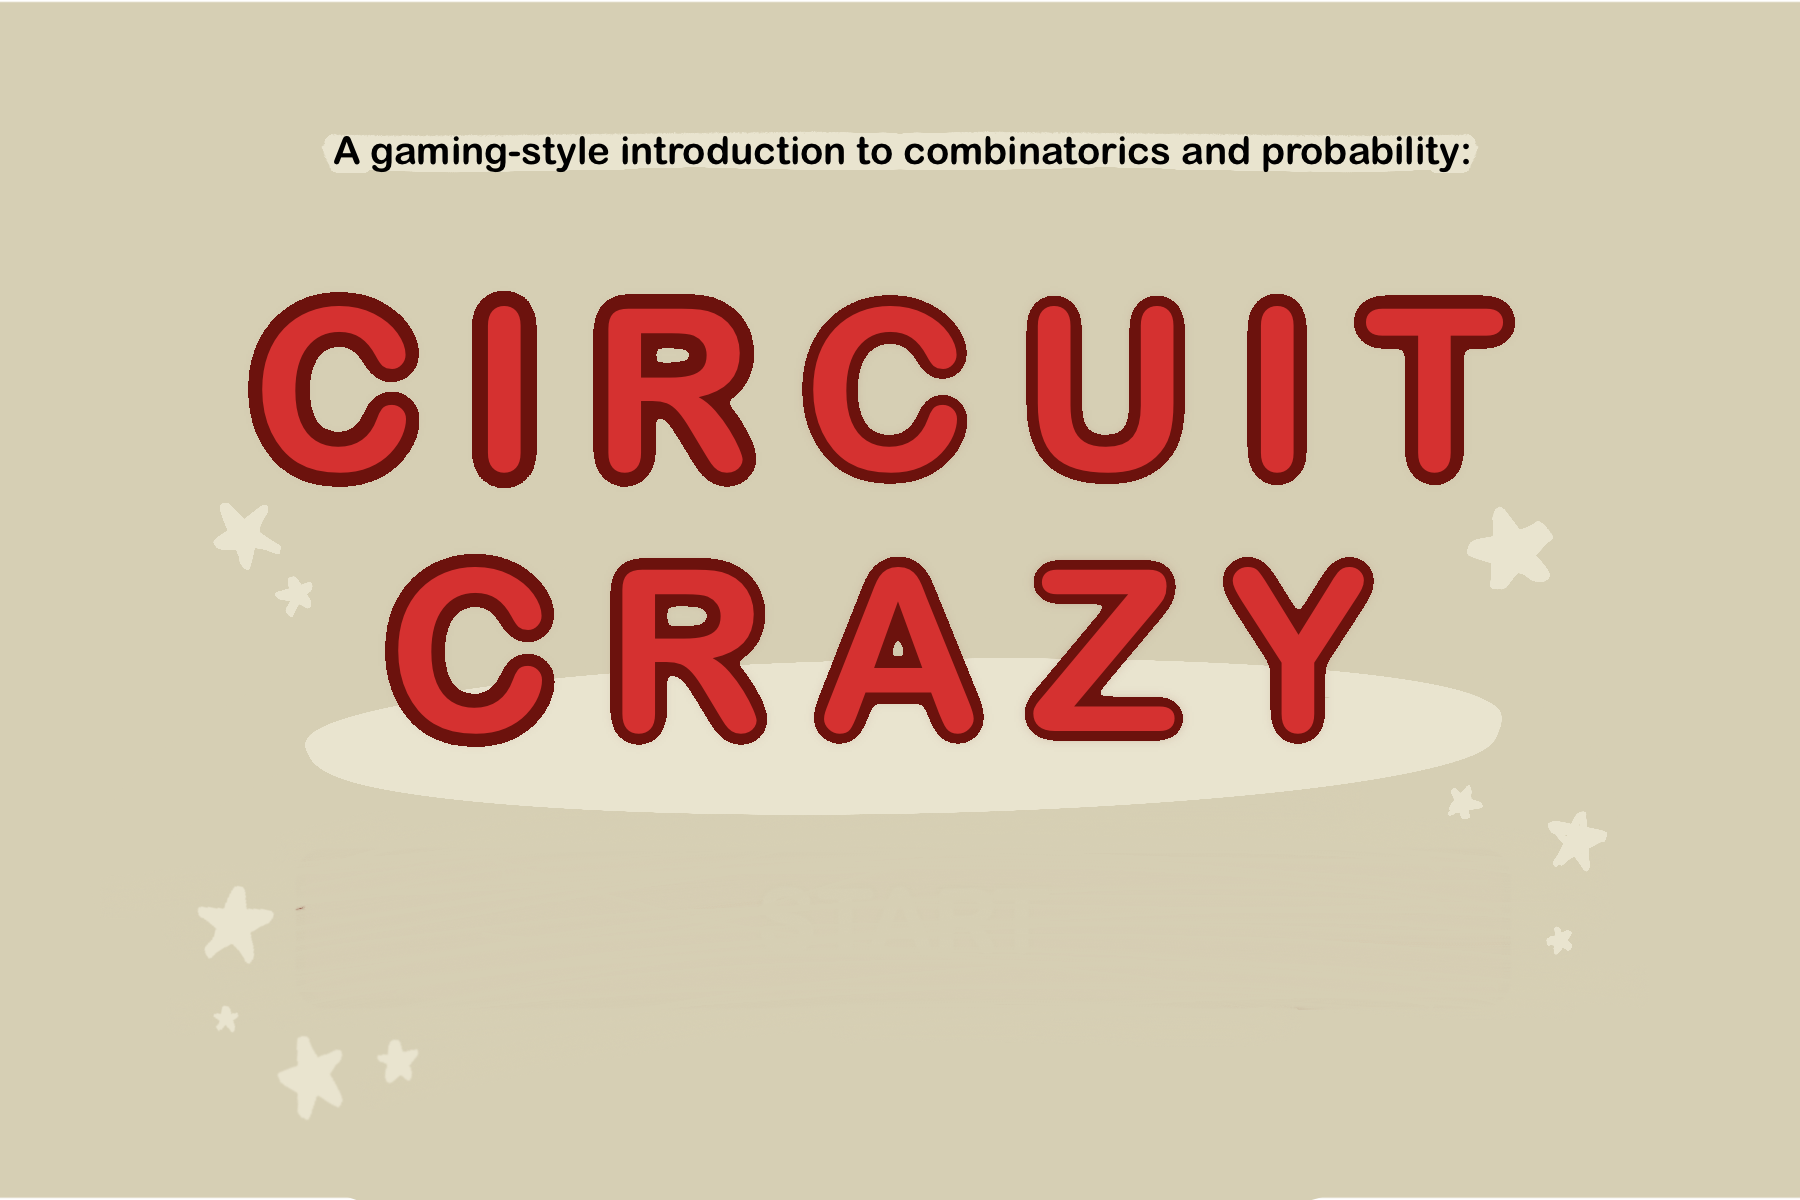
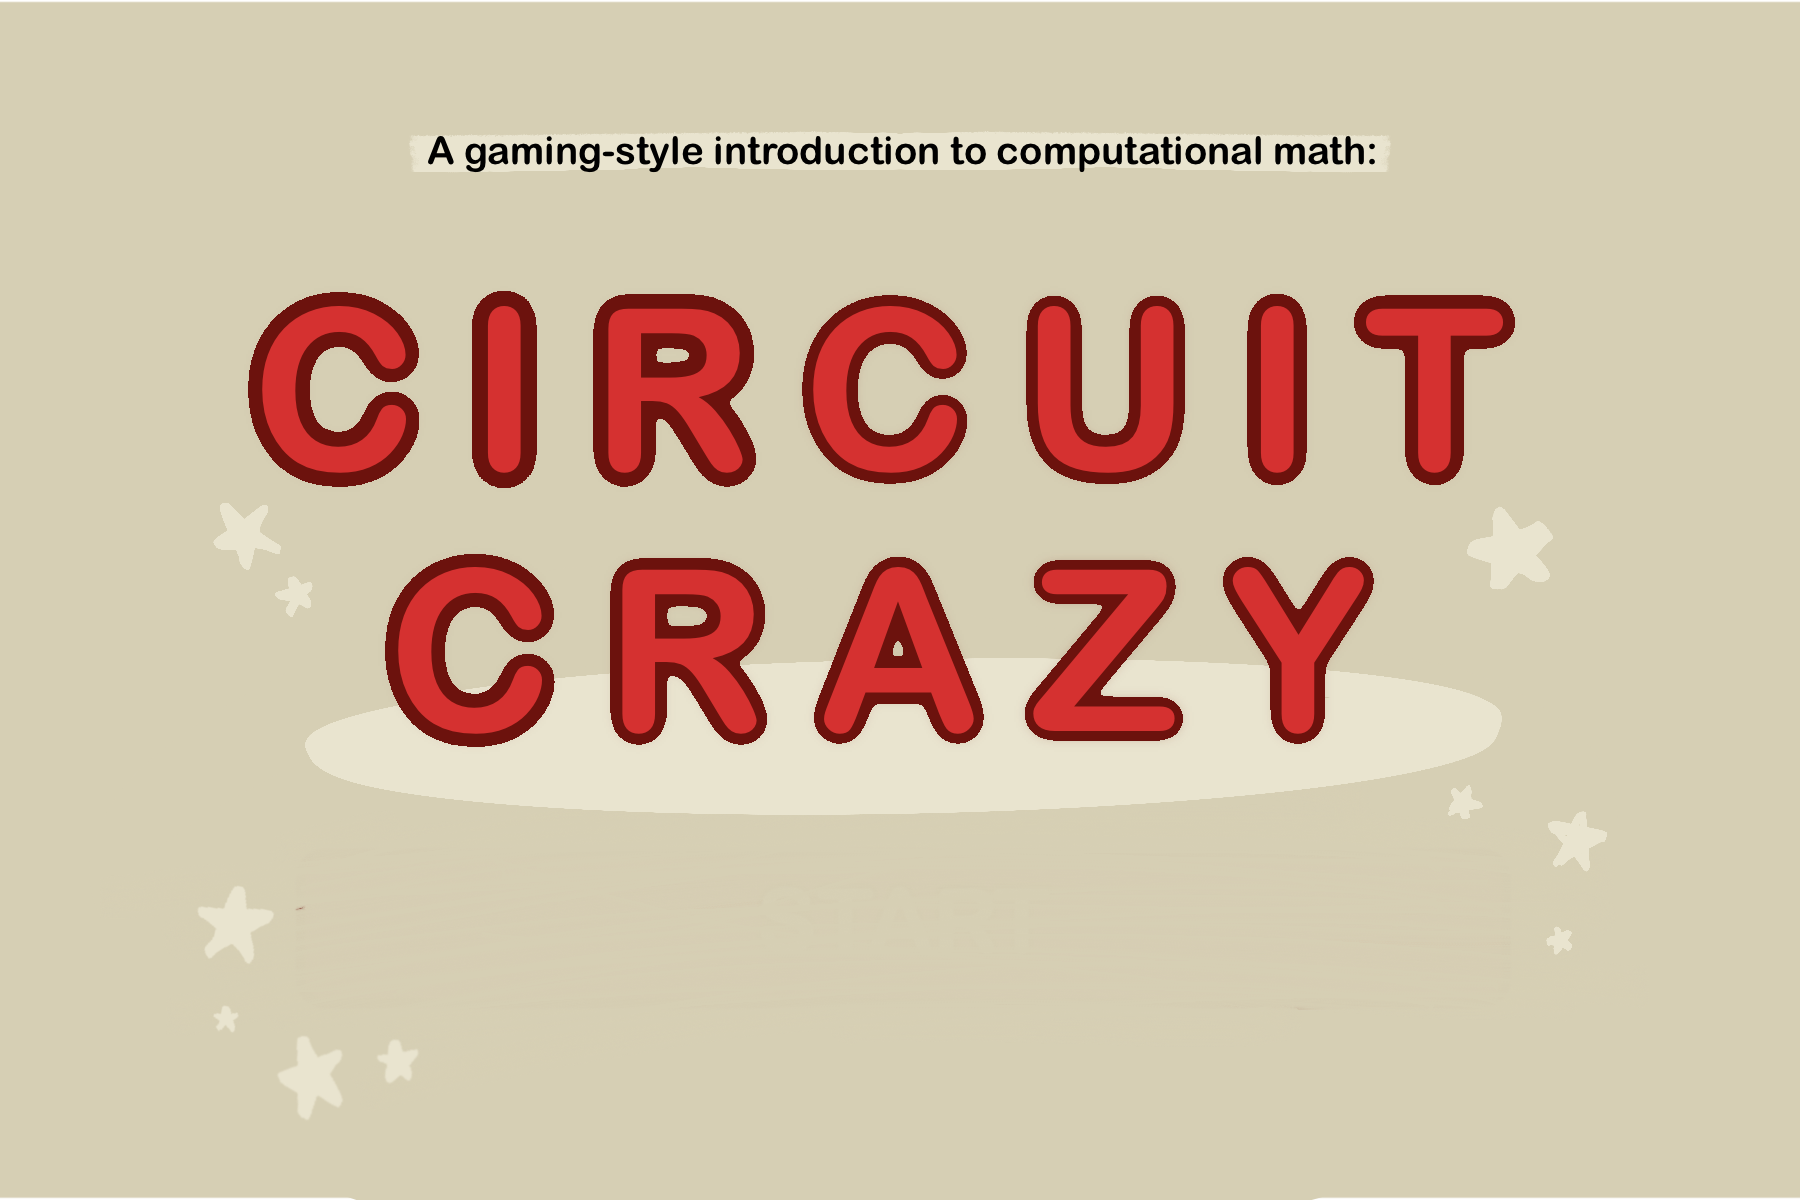
Update background

Changed region(s): [[0.1867, 0.0925, 0.84, 0.1542]]

diff --git a/guiObjects/LevelSelectScreen.js b/guiObjects/LevelSelectScreen.js
@@ -1,5 +1,5 @@
 
-let levelsUnlocked = 3;
+let levelsUnlocked = 30;
 let levelOn = 0;
 class LevelSelectScreen extends GUI {
     constructor() {
@@ -30,41 +30,43 @@ class LevelSelectScreen extends GUI {
         //Level 3: Add tigers
         levels.push({ items: [ConstantNode, InputNode, AddNode, OutputNode], inputs: ["X", "Y"], instructions: "If you have x tigers in one enclosure, y in the other, and 3 roaming the zoo, how many tigers do you have?" })
 
-        // level 4: Divide tigers
-        levels.push({ items: [ConstantNode, InputNode, SubNode, AddNode, MultNode, OutputNode], inputs: ["X", "Y"], instructions: "You put x tigers in each of y buckets. How many tigers are there in total?" })
+        //4: And gate
+        levels.push({ items: [ConstantNode, InputNode, AddNode, MultNode, OutputNode], inputs: ["X", "Y", "Z"], instructions: "Given 3 integers, x, y, and z, that can be either 0 or 1, return 1 if all of them are 1, and 0 otherwise." })
+        
+        //5: NAND gate
+        levels.push({ items: [ConstantNode, InputNode, AddNode, SubNode, MultNode, OutputNode], inputs: ["X", "Y"], instructions: "Given 2 integers, x and y, that can be either 0 or 1, return 0 if all of them are 0, and 1 otherwise." })
 
-        // level 5: Mod tigers 
-        levels.push({ items: [ConstantNode, InputNode, AddNode, MultNode, OutputNode], inputs: ["X", "Y"], instructions: "You have x tigers. You put them into y buckets. Each bucket has the same number of tigers-- any leftover tigers are put away. How many tigers are left over?" })
+        //6: Divide tigers
+        levels.push({ items: [ConstantNode, InputNode, AddNode, SubNode, MultNode, DivNode, OutputNode], inputs: ["X", "Y"], instructions: "You put x tigers in each of y cages and the loading dock. How many tigers are there in total?" })
+        
+        //7: Mod tigers 
+        levels.push({ items: [ConstantNode, InputNode, AddNode, SubNode, MultNode, DivNode, OutputNode], inputs: ["X", "Y"], instructions: "You have x tigers. You put them into y packs. Each pack has the same number of tigers-- any leftover tigers form duos. How many duos are there?" })
 
-        // level 6: choose
-        levels.push({ items: [ConstantNode, InputNode, AddNode, SubNode, MultNode, DivNode, FactorialNode, OutputNode], inputs: ["X", "Y"], instructions: "There are X tigers. You need to form a group of Y tigers for a hackathon. How many unique groups of tigers can you make?" })
+        //8: mini-collatz
+        levels.push({ items: [ConstantNode, InputNode, AddNode, SubNode, MultNode, DivNode, OutputNode], inputs: ["N"], instructions: "Given an integer n, if n is even return n/2. If n is odd, return 3n + 1." })
 
-        // level 7: permutations
-        levels.push({ items: [ConstantNode, InputNode, AddNode, SubNode, MultNode, DivNode, FactorialNode, ChooseNode, OutputNode], inputs: ["N", "K"], instructions: "A tiger has n stripes. Each stripe could be k colors. How many possible stripe patterns could this tiger have?" })
+        //9: Exactly-2 gate
+        levels.push({ items: [ConstantNode, InputNode, AddNode, SubNode, MultNode, OutputNode], inputs: ["X", "Y", "Z"], instructions: "Given 3 integers, x, y and z, that can be either 0 or 1, return 1 if exactly two of them are 1, and 0 otherwise." })
 
-        // level 8: circular permutation
-        levels.push({ items: [ConstantNode, InputNode, AddNode, SubNode, MultNode, DivNode, FactorialNode, ChooseNode, OutputNode], inputs: ["N"], instructions: "How many ways can you arrange n unique tigers in a circle?" })
+        //10: Sum of integers to n
+        levels.push({ items: [ConstantNode, InputNode, AddNode, SubNode, MultNode, DivNode, OutputNode], inputs: ["X"], instructions: "There are X tigers. You need to form a group of Y tigers for a hackathon. How many different ways can you make a group?" })
 
-        //level 9: 2 heads, coin flip
-        levels.push({ items: [ConstantNode, AddNode, SubNode, MultNode, DivNode, FactorialNode, ChooseNode, OutputNode], inputs: [""], instructions: "You have a fair tiger-shaped coin. What're the chances that you get two heads in a row, if you toss the coin twice?" })
+        //11: exponents
+        levels.push({ items: [ConstantNode, InputNode, AddNode, SubNode, MultNode, DivNode, OutputNode], inputs: ["N", "K"], instructions: "A tiger has n stripes. Each stripe could be k colors. How many possible stripe patterns could this tiger have?" })
 
-        // level 10: n coins 
-        levels.push({ items: [ConstantNode, InputNode, AddNode, SubNode, MultNode, DivNode, FactorialNode, ChooseNode, OutputNode], inputs: ["N"], instructions: "You have a fair tiger-shaped coin. What're the chances that you get n heads in a row, if you toss the coin n times?" })
+        //12: circular permutation
+        levels.push({ items: [ConstantNode, InputNode, AddNode, SubNode, MultNode, DivNode, FactorialNode, OutputNode], inputs: ["N"], instructions: "How many ways can you arrange n unique tigers in a circle, ignoring rotations?" })
+        
+        //13: choose function
+        levels.push({ items: [ConstantNode, InputNode, AddNode, SubNode, MultNode, DivNode, FactorialNode, OutputNode], inputs: ["X", "Y"], instructions: "There are X tigers. You need to form a group of Y tigers for a hackathon. How many different ways can you make a group?" })
 
-        // level 11: March Madness 
-        levels.push({ items: [ConstantNode, AddNode, SubNode, MultNode, DivNode, FactorialNode, ChooseNode, OutputNode], inputs: [""], instructions: "What are the chances of the March Madness winning team being Tigers, assuming that every team has an equal chance of winning? (Hint: 68 teams compete in March madness. Assume 5 of them have tigers as their mascot)" })
+        //14: box theorem
+        levels.push({ items: [ConstantNode, InputNode, AddNode, SubNode, MultNode, DivNode, FactorialNode, ChooseNode, OutputNode], inputs: ["X", "Y"], instructions: "How many different ways could you give X identical steaks to Y unique tigers?" })
 
-        // level 12: birthdays
-        levels.push({ items: [ConstantNode, InputNode, AddNode, SubNode, MultNode, DivNode, FactorialNode, ChooseNode, OutputNode], inputs: ["N"], instructions: "Find the probability that, in a set of n randomly chosen people, at least two will share the same birthday" })
+        //15: Loud Combinatorics
+        levels.push({ items: [ConstantNode, InputNode, AddNode, SubNode, MultNode, DivNode, FactorialNode, ChooseNode, OutputNode], inputs: [], instructions: "How many ways are there to choose N codes which are K-digit or shorter binary sequences" })
 
-        // level 13: stones
-        levels.push({ items: [ConstantNode, InputNode, AddNode, SubNode, MultNode, DivNode, FactorialNode, ChooseNode, OutputNode], inputs: ["N"], instructions: "You are given n stones. One of them is much lighter than the others; the rest are of equal weight. Given a scale, how many weighings do you need to find the light stone?" })
 
-        // level 14: odds & evens
-        levels.push({ items: [ConstantNode, InputNode, AddNode, SubNode, MultNode, DivNode, FactorialNode, ChooseNode, OutputNode], inputs: ["N"], instructions: "Given an integer n, if n is even return n/2. If n is odd, return 3n + 1." })
-
-        // level 15: and gate
-        levels.push({ items: [ConstantNode, InputNode, AddNode, SubNode, MultNode, DivNode, FactorialNode, ChooseNode, OutputNode], inputs: ["X", "Y"], instructions: "Given two integers, x and y, that both can be either 0 or 1, recreate an 'AND' gate. (hint: an and gate returns 1 if and only if all its inputs are 1)" })
 
         this.elements = []
         for (let i = 0; i < 15; i++) {

diff --git a/Verifier.js b/Verifier.js
@@ -14,11 +14,48 @@ function getDualNumberRange() {
     }
     return cases;
 }
+function getDualNumberRangeDecreasing() {
+    let cases = []
+    for (let i = 0; i < 12; i++) {
+        for (let j = i; j < 12; j++) {
+            cases.push([j, i])
+        }
+    }
+    return cases;
+}
+function getDuoProblemDomain() {
+    let cases = []
+    for (let i = 3; i < 10; i++) {
+        for (let j = 2; j < 40; j++) {
+            if ((j % i) % 2 == 0) {
+                cases.push([j, i])
+            }
+        }
+    }
+    return cases;
+}
+
 function VerifyCurrentSolution() {
     const correctSolutions = [
+        //count 0
         { inputs: getNumberRange, outputs: function (input) { return 0; } },
+        //input to output
         { inputs: getNumberRange, outputs: function (input) { return input[0]; } },
+        //
         { inputs: getDualNumberRange, outputs: function (input) { return input[0] + input[1] + 3; } },
+        { inputs: getDualNumberRange, outputs: function (input) { return input[0] * (input[1] + 1); } },
+        { inputs: getDuoProblemDomain, outputs: function (input) { return (input[0] % input[1]) / 2; } },
+        {
+            inputs: getDualNumberRangeDecreasing, outputs: function (input) {
+                let prod = 1;
+                let fac = input[1]
+                for (let i = 1; i <= input[1]; i++) {
+                    prod *= input[0] - i + 1;
+                    prod /= i;
+                }
+                return prod;
+            }
+        },
     ]
     //verify current level
     let solSet = correctSolutions[levelOn - 1];
@@ -26,13 +63,14 @@ function VerifyCurrentSolution() {
     let isTrue = true;
     let failCases = [];
     let succCases = [];
+    console.log(data)
     for (let i = 0; i < data.length; i++) {
         let correctSolution = solSet.outputs(data[i]);
         let userSolution = screens.editor.EvaluateForInput(data[i]);
-        if(!userSolution.complete){
+        if (!userSolution.complete) {
             userSolution.output = 0;
         }
-        if ( userSolution.output != correctSolution) {
+        if (userSolution.output != correctSolution) {
             if (userSolution.complete) {
                 failCases.push({ input: data[i], output: userSolution.output, correct: correctSolution })
             } else {

diff --git a/guiObjects/EditorScreen.js b/guiObjects/EditorScreen.js
@@ -356,19 +356,7 @@ class EditorScreen extends GUI {
     }
     mousePressed(x, y) {
         if (this.reviewingAnswers) {
-            if (x > 350 && x < 550 && y > 325 && y < 375) {
-                if(this.verifierOutput.success) {
-                    screenOn = "levelselect";
-                    if(levelOn == levelsUnlocked){
-                        levelsUnlocked++;
-                        screens.levelselect.ResetLevels();
-                    }
-                }
-                else {
-                    this.reviewingAnswers = false;
-                    this.answerReviewProg = 0;
-                }
-            }
+            //pass
         } else if (x < 400) {
             //select heavy object
             for (let i = 0; i < this.tableObjects.length; i++) {
@@ -434,7 +422,21 @@ class EditorScreen extends GUI {
         }
     }
     HandleClick(x, y) {
-        if (!this.reviewingAnswers) {
+        if (this.reviewingAnswers) {
+            if (x > 350 && x < 550 && y > 325 && y < 375) {
+                if (this.verifierOutput.success) {
+                    screenOn = "levelselect";
+                    if (levelOn == levelsUnlocked) {
+                        levelsUnlocked++;
+                        screens.levelselect.ResetLevels();
+                    }
+                }
+                else {
+                    this.reviewingAnswers = false;
+                    this.answerReviewProg = 0;
+                }
+            }
+        } else {
             super.HandleClick(x, y)
         }
     }

diff --git a/editorObjects/NodeTypes/FactorialNode.js b/editorObjects/NodeTypes/FactorialNode.js
@@ -1,6 +1,6 @@
 class FactorialNode extends EditorNode {
     constructor(x, y) {
-        super(x, y, 40, 40, Assets.factorialNode, ["Input"], ["Output"]);
+        super(x, y, 40, 40, Assets.factorialNode, ["N"], ["The Factorial of N"]);
     }
     static getSymbol() {
         return Assets.factorialNode;
